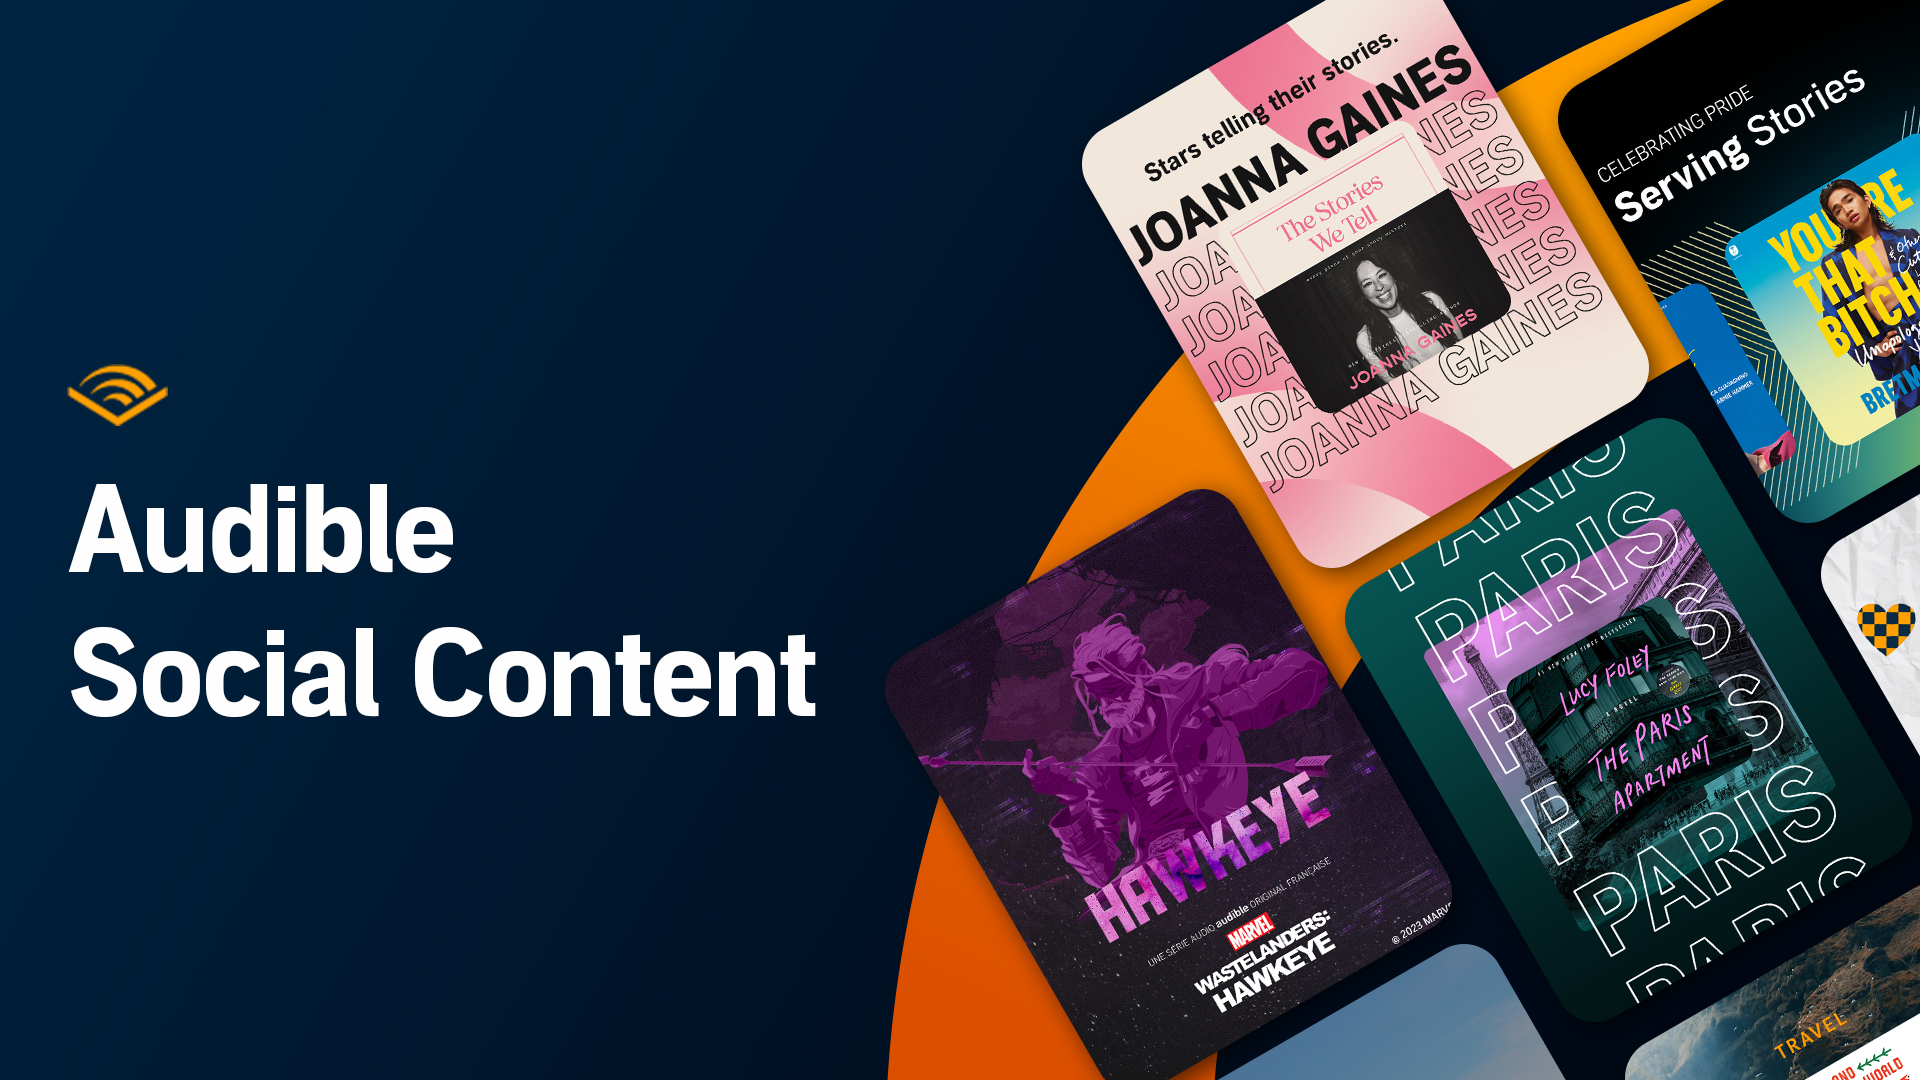
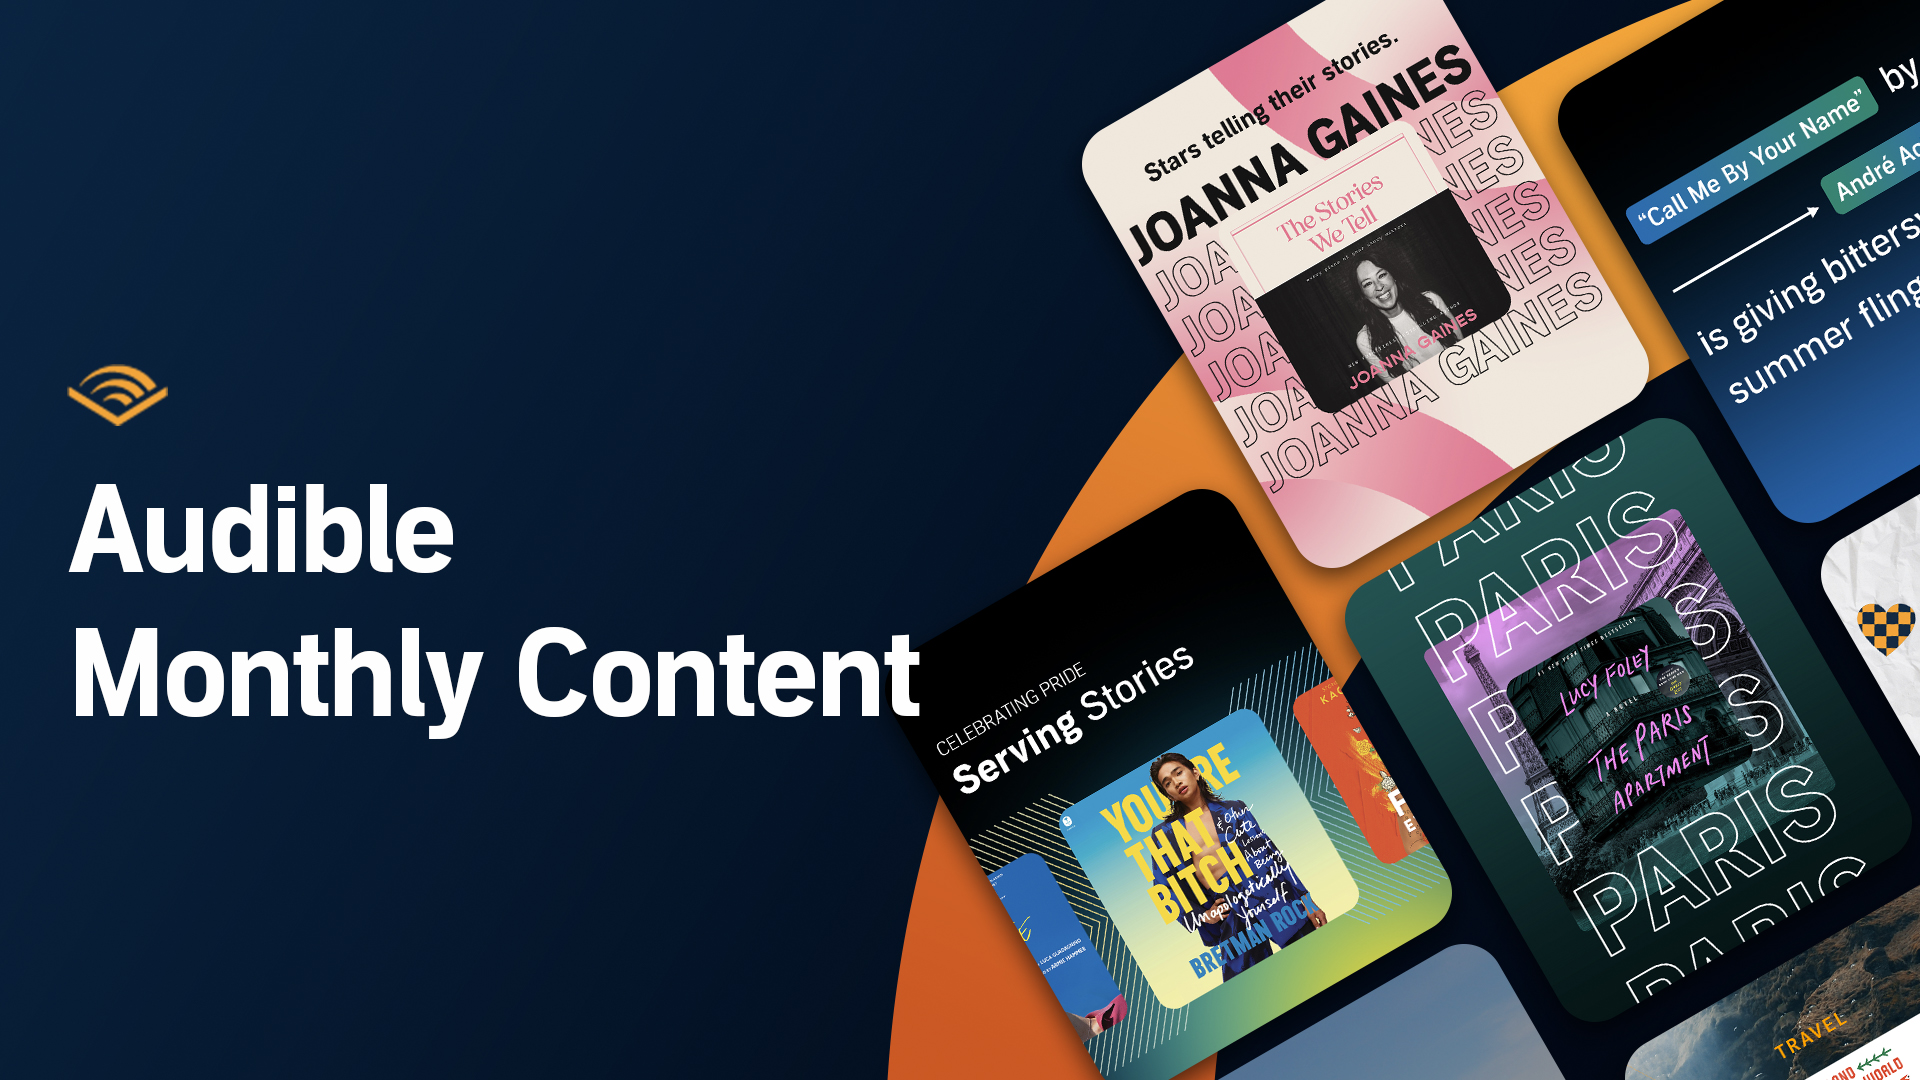
Split Audible content into 2 buckets

Changed region(s): [[0.0312, 0.0, 1.0, 1.0], [0.0312, 0.3361, 0.0938, 0.3972], [0.9688, 0.55, 1.0, 0.6111]]

diff --git a/marvel.html b/marvel.html
@@ -1,0 +1,125 @@
+<!DOCTYPE html>
+<html>
+<head>
+  <link rel="icon" href="assets/images/Fang_Logosvg.svg">
+  <meta charset="utf-8">
+  <meta name="viewport" width=device-width, initial-scale=1.0, maximum-scale=1.0, user-scalable=0>
+
+  <!-- CSS stylesheet(s) -->
+  <link rel="stylesheet" type="text/css" href="css/common.css" />
+  <link rel="stylesheet" type="text/css" href="css/stylesaudible.css" />
+
+  <!-- Libraries -->
+  <script
+  src="https://code.jquery.com/jquery-3.3.1.min.js"
+  integrity="sha256-FgpCb/KJQlLNfOu91ta32o/NMZxltwRo8QtmkMRdAu8="
+  crossorigin="anonymous"></script>
+  <link rel="stylesheet" type="text/css" href="https://code.jquery.com/ui/1.12.1/themes/base/jquery-ui.css" />
+  <script
+  src="https://code.jquery.com/ui/1.12.1/jquery-ui.min.js"
+  integrity="sha256-VazP97ZCwtekAsvgPBSUwPFKdrwD3unUfSGVYrahUqU="
+  crossorigin="anonymous"></script>
+
+  <!-- My script(s) -->
+  <script src="js/script.js"></script>
+</head>
+
+<nav id="top-nav">
+  <div id="header-left">
+    <li><a class="nav-link" href="index.html"><img src="assets/images/fang_webb.svg" id="logo" align="middle" height="120"></a></li>
+  </div>
+  <div id="header-right">
+    <li><a class="nav-link" id="about2" href="about.html">about</a></li>
+    <li><a class="nav-link" id="work2" href="/#work-container">work</a></li>
+    <li><a class="nav-link" id="cv2" href="cv.html">cv</a></li>
+  </div>
+</nav>
+
+</div>
+
+<body>
+
+  <a class="nav-link" href="index.html#work-container"> <div id="seemore"> <img src="assets/images/jadeseemore.svg" id="seemoreani" align="middle" width="190" height="65"> </div></a>
+
+  <div id="cent"><img src="assets/images/audible/marvel_upper.jpg" id="hub" align="middle" width="1000"> </div>
+
+  <div id="titledc"> Audible Marvel's Wastelanders</div>
+  <p> </p>
+  <div id="description">Audible was launching all 6 seasons of Marvel’s action packed episodic podcast across many of their international marketplaces and they’ve assembled us to save the day! Getting the opportunity to work on creative involving the superheroes who've inspired my younger self was an absolute dream.
+<p> </p>
+For this campaign, we conceptualized and delivered assets in all size formats and platforms to allow marketplaces the flexibility to post how they see fit.</div>
+  <div id="heritage2">
+
+
+<div id="cent2"><img src="assets/images/audible/marvel_mock.jpg" id="hub" align="middle" width="800"> </div>
+
+<div id="description2">After establishing the foundational visual structure for the first season, we continued with the foundation we laid out while bringing in plot elements and look and feel of the newer seasons into the mix.</div>
+    <div id="cent2"><img src="assets/images/audible/marvel_swipes.jpg" id="hub" align="middle" width="1000"> </div>
+
+
+  <div id="work-containertitle">
+
+    <div class="row">
+      <div class="column">
+        <div class="content">
+
+          <div id= "concepttitle">
+            Animated Content
+            </div>
+
+
+        </div>
+      </div>
+      <div class="column">
+        <div class="content">
+          <div id= "condescription">
+            </div>
+
+        </div>
+      </div>
+
+    </div>
+
+    <div class="row">
+      <div class="column">
+        <div class="content">
+          <iframe src="https://player.vimeo.com/video/988119899?badge=0&amp;autopause=0&amp;player_id=0&amp;app_id=58479" width="300" height="375" frameborder="0" allow="autoplay; fullscreen; picture-in-picture; clipboard-write" title="Marvel Wasterlanders: Hawkeye"></iframe>
+
+
+        </div>
+      </div>
+      <div class="column">
+        <div class="content">
+          <iframe src="https://player.vimeo.com/video/989285540?badge=0&amp;autopause=0&amp;player_id=0&amp;app_id=58479" width="300" height="375" frameborder="0" allow="autoplay; fullscreen; picture-in-picture; clipboard-write" title="Doctor Doom"></iframe>
+
+        </div>
+      </div>
+
+      <div class="column">
+        <div class="content">
+          <iframe src="https://player.vimeo.com/video/989287401?badge=0&amp;autopause=0&amp;player_id=0&amp;app_id=58479" width="300" height="375" frameborder="0" allow="autoplay; fullscreen; picture-in-picture; clipboard-write" title="Star-Lord"></iframe>
+
+        </div>
+      </div>
+
+    </div>
+
+  </div>
+
+<div id="reduc2"><div id="logodesign"><img src="assets/images/audible/audiblelogo.png" id="hub" align="middle" width="55"> </div> </div>
+
+    </div>
+
+  </body>
+
+  <footer>
+    <div class="footer-left">
+      <span>in. /kevglam</span>
+      <span>bē. /kevglam</span>
+    </div>
+    <div class="footer-right">
+      <span>e. keving_lam@outlook.com</span>
+      <span>tel. +1 514 243 9595</span>
+    </div>
+  <footer>
+</html>

diff --git a/audible.html b/audible.html
@@ -41,72 +41,20 @@
 
   <a class="nav-link" href="index.html#work-container"> <div id="seemore"> <img src="assets/images/jadeseemore.svg" id="seemoreani" align="middle" width="190" height="65"> </div></a>
 
-  <div id="cent"><img src="assets/images/audible/upper.jpg" id="hub" align="middle" width="1000"> </div>
+  <div id="cent"><img src="assets/images/audible/global_upper.jpg" id="hub" align="middle" width="1000"> </div>
 
-  <div id="titledc"> Audible</div>
+  <div id="titledc"> Audible Monthly Content</div>
   <p> </p>
   <div id="description">From post-apocalyptic vampire sisters to bedtime stories with Nick Jonas, Audible’s catalog knows no bounds. Getting the opportunity to create social content that showcases all of these world-bending titles and genres was such a treat. The platforms that I created for are Instagram (In-feed and Reels), Facebook, X and TikTok.
 <p> </p>
-The deliverables are focused on social: Evergreen Monthly Social Content, Larger Social Campaigns, Brand Platforms, Reactive Ad-Hoc posts and Social Templates.</div>
+Our monthly deliverables are typically 20-30 assets globally plus 20-30 assets specifically for the US channels that feature audiobooks while speaking to the trending global topics of the given month. </div>
   <div id="heritage2">
 
-  <div id="work-containertitle">
-
-    <div class="row">
-      <div class="column">
-        <div class="content">
-
-          <div id= "concepttitle">
-            Global Social Feed
-            </div>
+    <div id="cent2"><img src="assets/images/audible/global_swipes.jpg" id="hub" align="middle" width="1000"> </div>
 
 
-        </div>
-      </div>
-      <div class="column">
-        <div class="content">
-          <div id= "condescription">
-            </div>
-
-        </div>
-      </div>
-
-    </div>
-
-  </div>
-
-
-
-    <div id="cent2"><img src="assets/images/audible/m02.jpg" id="hub" align="middle" width="1000"> </div>
-
-
-  <div id="work-containertitle">
-
-    <div class="row">
-      <div class="column">
-        <div class="content">
-
-          <div id= "concepttitle">
-            Marvel Wastelanders
-            </div>
-
-
-        </div>
-      </div>
-      <div class="column">
-        <div class="content">
-          <div id= "condescription">
-
-        </div>
-
-        </div>
-      </div>
-
-    </div>
-
-  </div>
-
-  <div id="cent2"><img src="assets/images/audible/marvel.jpg" id="hub" align="middle" width="800"> </div>
+    <div id="description2">The creative workflow for monthly content is generally organized as such: get briefed on trending topics and audiobooks we will be featuring, brainstorm visual execution of assets, build assets, client review and finally adjust assets per client feedback.</div>
+  <div id="cent2"><img src="assets/images/audible/global_mocks.jpg" id="hub" align="middle" width="800"> </div>
 
   <div id="work-containertitle">
 
@@ -134,7 +82,7 @@ The deliverables are focused on social: Evergreen Monthly Social Content, Larger
     <div class="row">
       <div class="column">
         <div class="content">
-          <iframe src="https://player.vimeo.com/video/988119899?badge=0&amp;autopause=0&amp;player_id=0&amp;app_id=58479" width="300" height="375" frameborder="0" allow="autoplay; fullscreen; picture-in-picture; clipboard-write" title="Marvel Wasterlanders: Hawkeye"></iframe>
+          <iframe src="https://player.vimeo.com/video/989282733?badge=0&amp;autopause=0&amp;player_id=0&amp;app_id=58479" width="300" height="375" frameborder="0" allow="autoplay; fullscreen; picture-in-picture; clipboard-write" title="Joanna Gaines"></iframe>
 
 
         </div>

diff --git a/index.html b/index.html
@@ -55,8 +55,8 @@
               <a href="audible.html">
                 <img class="preview" src="assets/images/front/audiblefront.jpg" id="mountfront" align="middle">
               </a>
-              <div class="title"> <span>Audible</span>&nbsp;<span>2023 – Present</span></div>
-              <div class="description"> <span>Art direction of Social content and Social campaigns for Audible</span></div>
+              <div class="title"> <span>Audible Monthly Content</span>&nbsp;<span>2023 – Present</span></div>
+              <div class="description"> <span>Art direction of global social content for Audible</span></div>
               <div class="category">social media - graphics - art direction </div>
             </div>
           </div>
@@ -105,12 +105,12 @@
           </div>
           <div class="column">
             <div class="content">
-              <a href="grayos.html">
-                <img class="preview" src="assets/images/grayfront.jpg" id="dcartfront" align="middle">
+              <a href="marvel.html">
+                <img class="preview" src="assets/images/front/marvelfront.jpg" id="dcartfront" align="middle">
               </a>
-              <div class="title"><span>Gray Oncology Solutions UI</span> &nbsp;<span>2021</span></div>
-              <div class="description"> <span>Desktop app UI design and web design for Gray Oncology Solutions</span></div>
-              <div class="category">UI/UX - web design - branding </div>
+              <div class="title"><span>Audible Marvel's Wastelanders</span> &nbsp;<span>2023 – Present</span></div>
+              <div class="description"> <span>Social campaign for the launch of Marvel's Wastelanders on Audible</span></div>
+              <div class="category">social media - graphics - art direction </div>
             </div>
           </div>
         </div>

diff --git a/js/script.js b/js/script.js
@@ -95,7 +95,7 @@ $(this).attr("src", "assets/images/front/ryucolfront.jpg");
 $("#dcartfront").hover(function(){
 $(this).attr("src", "assets/images/front/jadeclick2.jpg");
 }, function(){
-$(this).attr("src", "assets/images/grayfront.jpg");
+$(this).attr("src", "assets/images/front/marvelfront.jpg");
 });
 
 $("#dcartfront2").hover(function(){
